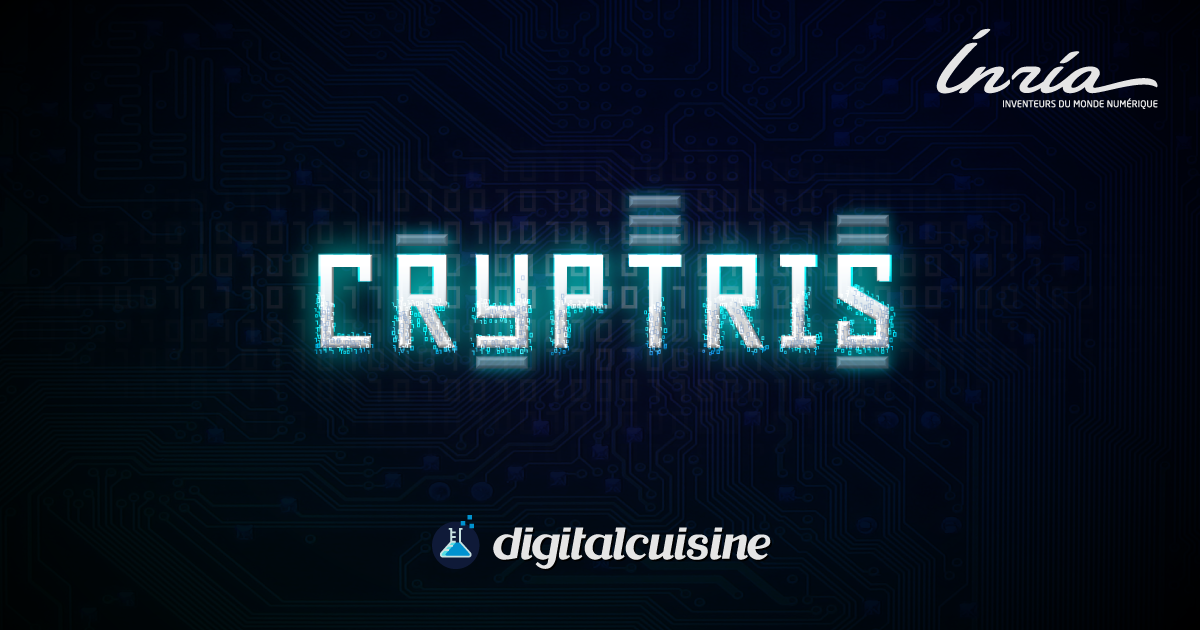
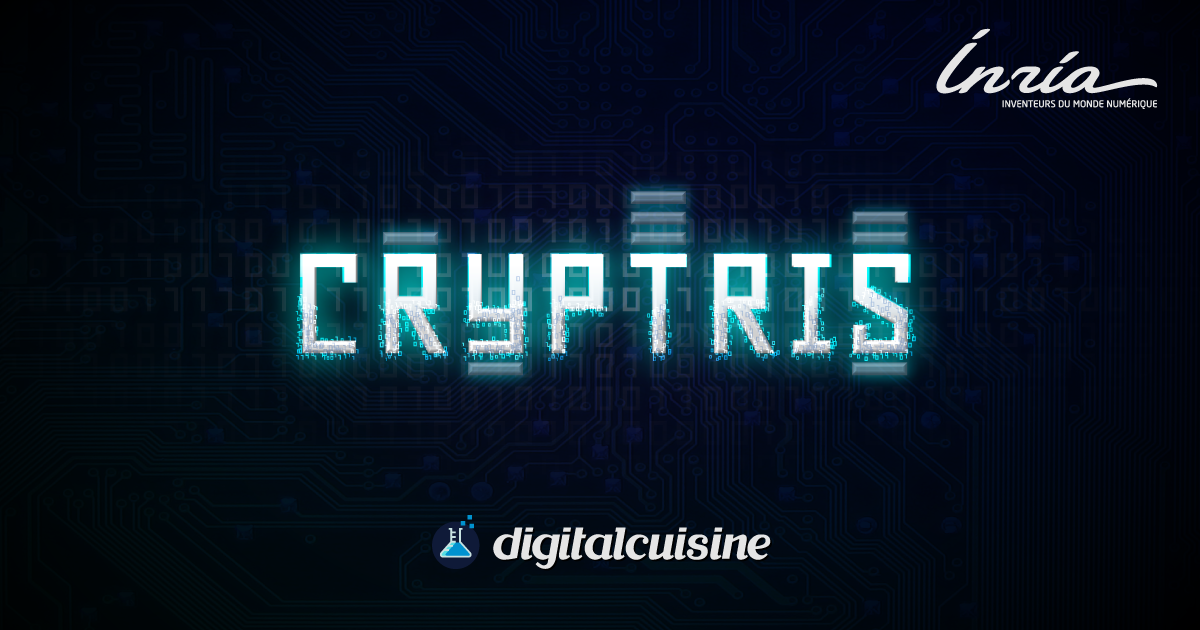
Update sharing props

Changed region(s): [[0.2158, 0.2714, 0.7708, 0.6032], [0.8017, 0.1206, 0.9558, 0.181]]

diff --git a/a-propos.html b/a-propos.html
@@ -14,9 +14,9 @@
     <meta name="twitter:site" content="@digital_cuisine">
     <meta name="twitter:title" content="Cryptris">
     <meta name="twitter:description" content="Découvrez l'univers de la cryptographie: jouez contre l’ordinateur pour savoir qui arrivera à décrypter le plus rapidement.">
-    <meta name="twitter:creator" content="@digital_cuisine">
+    <meta name="twitter:creator" content="@Inria">
     <!-- Twitter summary card with large image must be at least 280x150px -->
-    <meta name="twitter:image:src" content="http://daformat.github.io/cryptris/img/cryptis-social-preview-1200x630.png">
+    <meta name="twitter:image:src" content="http://daformat.github.io/cryptris/img/cryptis-social-preview-800x420.png">
 
     <!-- Open Graph data -->
     <meta property="og:title" content="Cryptris - Un jeu sur la cryptographie asymétrique" />

diff --git a/arcade.html b/arcade.html
@@ -14,9 +14,9 @@
     <meta name="twitter:site" content="@digital_cuisine">
     <meta name="twitter:title" content="Cryptris">
     <meta name="twitter:description" content="Découvrez l'univers de la cryptographie: jouez contre l’ordinateur pour savoir qui arrivera à décrypter le plus rapidement.">
-    <meta name="twitter:creator" content="@digital_cuisine">
+    <meta name="twitter:creator" content="@Inria">
     <!-- Twitter summary card with large image must be at least 280x150px -->
-    <meta name="twitter:image:src" content="http://daformat.github.io/cryptris/img/cryptis-social-preview-1200x630.png">
+    <meta name="twitter:image:src" content="http://daformat.github.io/cryptris/img/cryptis-social-preview-800x420.png">
 
     <!-- Open Graph data -->
     <meta property="og:title" content="Cryptris - Un jeu sur la cryptographie asymétrique" />

diff --git a/bonus.html b/bonus.html
@@ -14,9 +14,9 @@
     <meta name="twitter:site" content="@digital_cuisine">
     <meta name="twitter:title" content="Cryptris">
     <meta name="twitter:description" content="Découvrez l'univers de la cryptographie: jouez contre l’ordinateur pour savoir qui arrivera à décrypter le plus rapidement.">
-    <meta name="twitter:creator" content="@digital_cuisine">
+    <meta name="twitter:creator" content="@Inria">
     <!-- Twitter summary card with large image must be at least 280x150px -->
-    <meta name="twitter:image:src" content="http://daformat.github.io/cryptris/img/cryptis-social-preview-1200x630.png">
+    <meta name="twitter:image:src" content="http://daformat.github.io/cryptris/img/cryptis-social-preview-800x420.png">
 
     <!-- Open Graph data -->
     <meta property="og:title" content="Cryptris - Un jeu sur la cryptographie asymétrique" />

diff --git a/credits.html b/credits.html
@@ -14,9 +14,9 @@
     <meta name="twitter:site" content="@digital_cuisine">
     <meta name="twitter:title" content="Cryptris">
     <meta name="twitter:description" content="Découvrez l'univers de la cryptographie: jouez contre l’ordinateur pour savoir qui arrivera à décrypter le plus rapidement.">
-    <meta name="twitter:creator" content="@digital_cuisine">
+    <meta name="twitter:creator" content="@Inria">
     <!-- Twitter summary card with large image must be at least 280x150px -->
-    <meta name="twitter:image:src" content="http://daformat.github.io/cryptris/img/cryptis-social-preview-1200x630.png">
+    <meta name="twitter:image:src" content="http://daformat.github.io/cryptris/img/cryptis-social-preview-800x420.png">
 
     <!-- Open Graph data -->
     <meta property="og:title" content="Cryptris - Un jeu sur la cryptographie asymétrique" />

diff --git a/decrypter.html b/decrypter.html
@@ -14,9 +14,9 @@
     <meta name="twitter:site" content="@digital_cuisine">
     <meta name="twitter:title" content="Cryptris">
     <meta name="twitter:description" content="Découvrez l'univers de la cryptographie: jouez contre l’ordinateur pour savoir qui arrivera à décrypter le plus rapidement.">
-    <meta name="twitter:creator" content="@digital_cuisine">
+    <meta name="twitter:creator" content="@Inria">
     <!-- Twitter summary card with large image must be at least 280x150px -->
-    <meta name="twitter:image:src" content="http://daformat.github.io/cryptris/img/cryptis-social-preview-1200x630.png">
+    <meta name="twitter:image:src" content="http://daformat.github.io/cryptris/img/cryptis-social-preview-800x420.png">
 
     <!-- Open Graph data -->
     <meta property="og:title" content="Cryptris - Un jeu sur la cryptographie asymétrique" />

diff --git a/index.html b/index.html
@@ -14,9 +14,9 @@
     <meta name="twitter:site" content="@digital_cuisine">
     <meta name="twitter:title" content="Cryptris">
     <meta name="twitter:description" content="Découvrez l'univers de la cryptographie: jouez contre l’ordinateur pour savoir qui arrivera à décrypter le plus rapidement.">
-    <meta name="twitter:creator" content="@digital_cuisine">
+    <meta name="twitter:creator" content="@Inria">
     <!-- Twitter summary card with large image must be at least 280x150px -->
-    <meta name="twitter:image:src" content="http://daformat.github.io/cryptris/img/cryptis-social-preview-1200x630.png">
+    <meta name="twitter:image:src" content="http://daformat.github.io/cryptris/img/cryptis-social-preview-800x420.png">
 
     <!-- Open Graph data -->
     <meta property="og:title" content="Cryptris - Un jeu sur la cryptographie asymétrique" />

diff --git a/jeu.html b/jeu.html
@@ -15,9 +15,9 @@
     <meta name="twitter:site" content="@digital_cuisine">
     <meta name="twitter:title" content="Cryptris">
     <meta name="twitter:description" content="Découvrez l'univers de la cryptographie: jouez contre l’ordinateur pour savoir qui arrivera à décrypter le plus rapidement.">
-    <meta name="twitter:creator" content="@digital_cuisine">
+    <meta name="twitter:creator" content="@Inria">
     <!-- Twitter summary card with large image must be at least 280x150px -->
-    <meta name="twitter:image:src" content="http://daformat.github.io/cryptris/img/cryptis-social-preview-1200x630.png">
+    <meta name="twitter:image:src" content="http://daformat.github.io/cryptris/img/cryptis-social-preview-800x420.png">
 
     <!-- Open Graph data -->
     <meta property="og:title" content="Cryptris - Un jeu sur la cryptographie asymétrique" />
